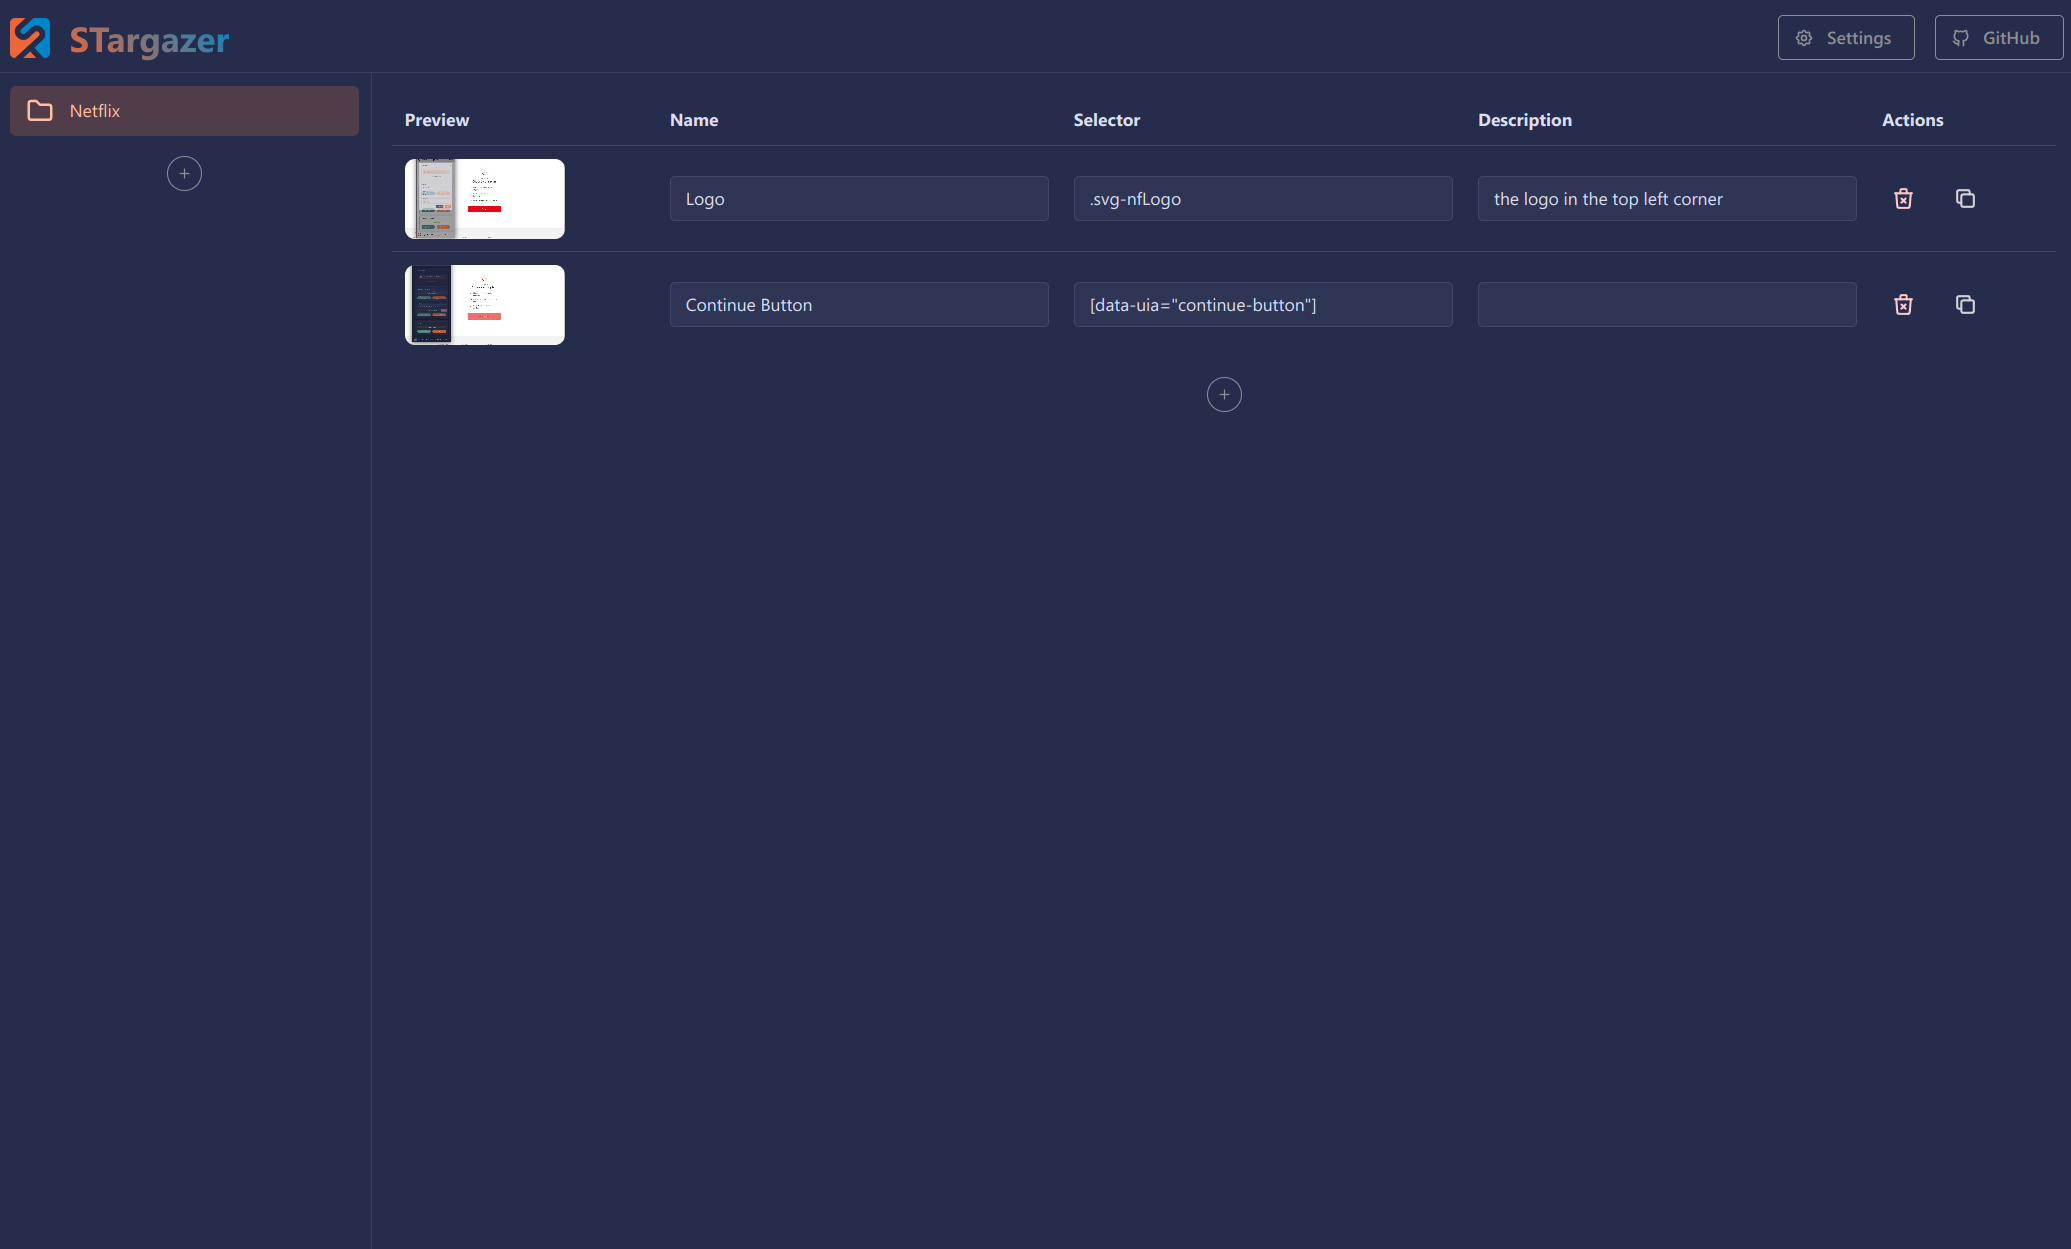
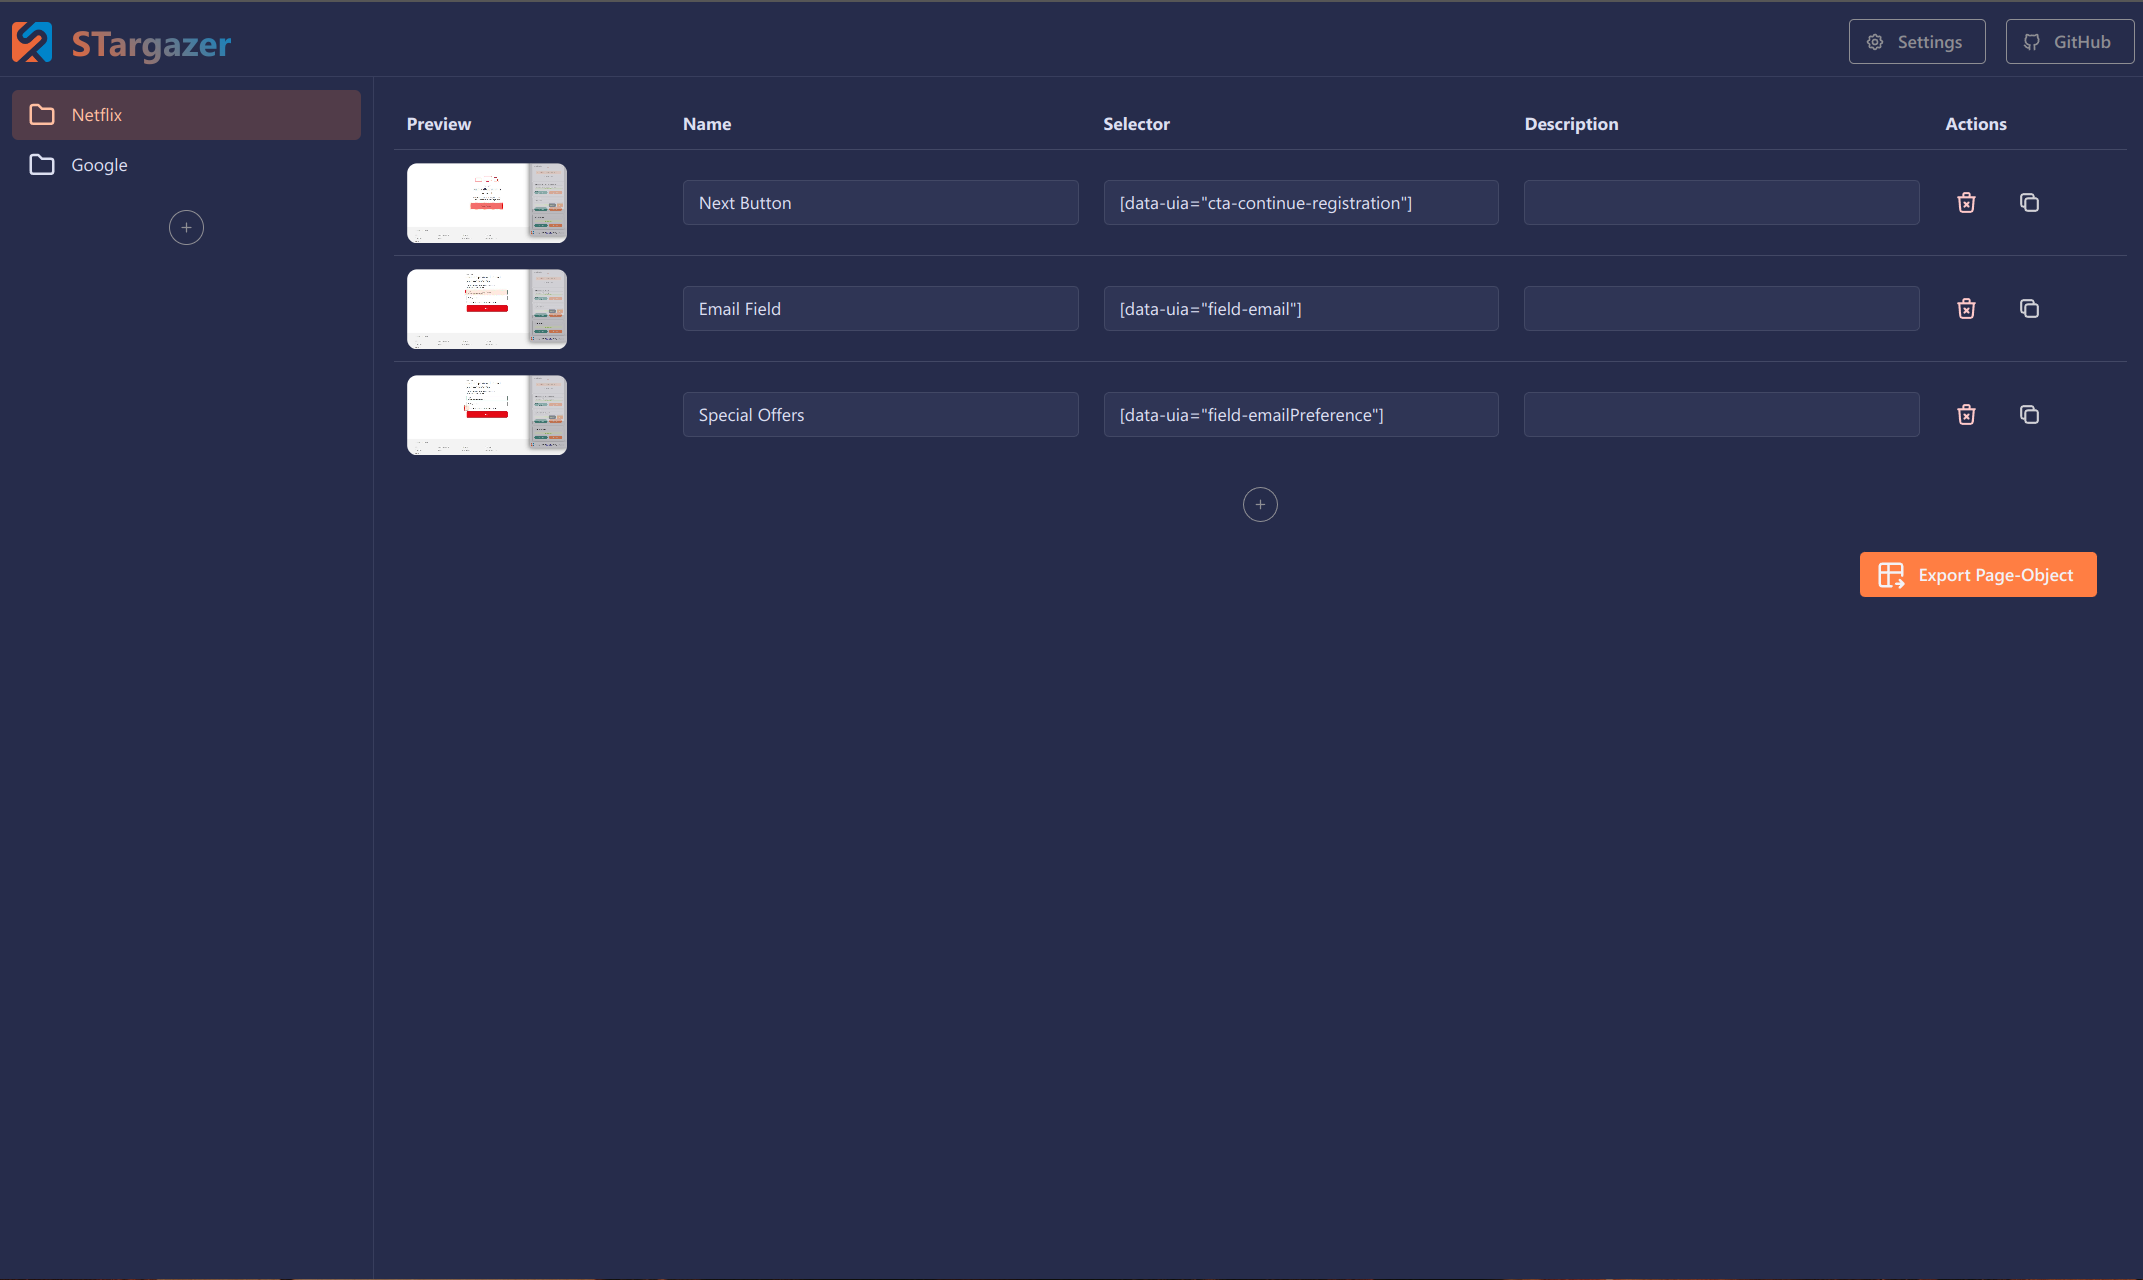
docs(readme): update screenshots, features

diff --git a/README.md b/README.md
@@ -18,16 +18,18 @@ STargazer is a chrome extension that can generate selectors for a given element.
   * 🖼 With Preview Image
 
 * 🤖 Automatic Page-Object File Generation
+  * Supports <kbd>Selenium</kbd> and <kbd>Playwright</kbd>
   * Supports multiple Languages (e.g. <kbd>C#</kbd>, <kbd>TypeScript</kbd>, <kbd>Java</kbd>, ...)
 
-* 🌙 Dark and ☀ Light-Theme
+* 🌙 Dark and ☀ Light-Theme 
 
 # 🖼 Screenshots
 
-| ☀ Light                                      | 🌙 Dark                                     |
-| -------------------------------------------- | ------------------------------------------ |
-| ![light](assets/screenshots/light.png)       | ![dark](assets/screenshots/dark.png)       |
-| ![light](assets/screenshots/vault-light.png) | ![dark](assets/screenshots/vault-dark.png) |
+| ☀ Light                                             | 🌙 Dark                                            |
+| --------------------------------------------------- | ------------------------------------------------- |
+| ![light](assets/screenshots/light.png)              | ![dark](assets/screenshots/dark.png)              |
+| ![light](assets/screenshots/vault-light.png)        | ![dark](assets/screenshots/vault-dark.png)        |
+| ![light](assets/screenshots/vault-export-light.png) | ![dark](assets/screenshots/vault-export-dark.png) |
 
 
 # 📦 Installation
